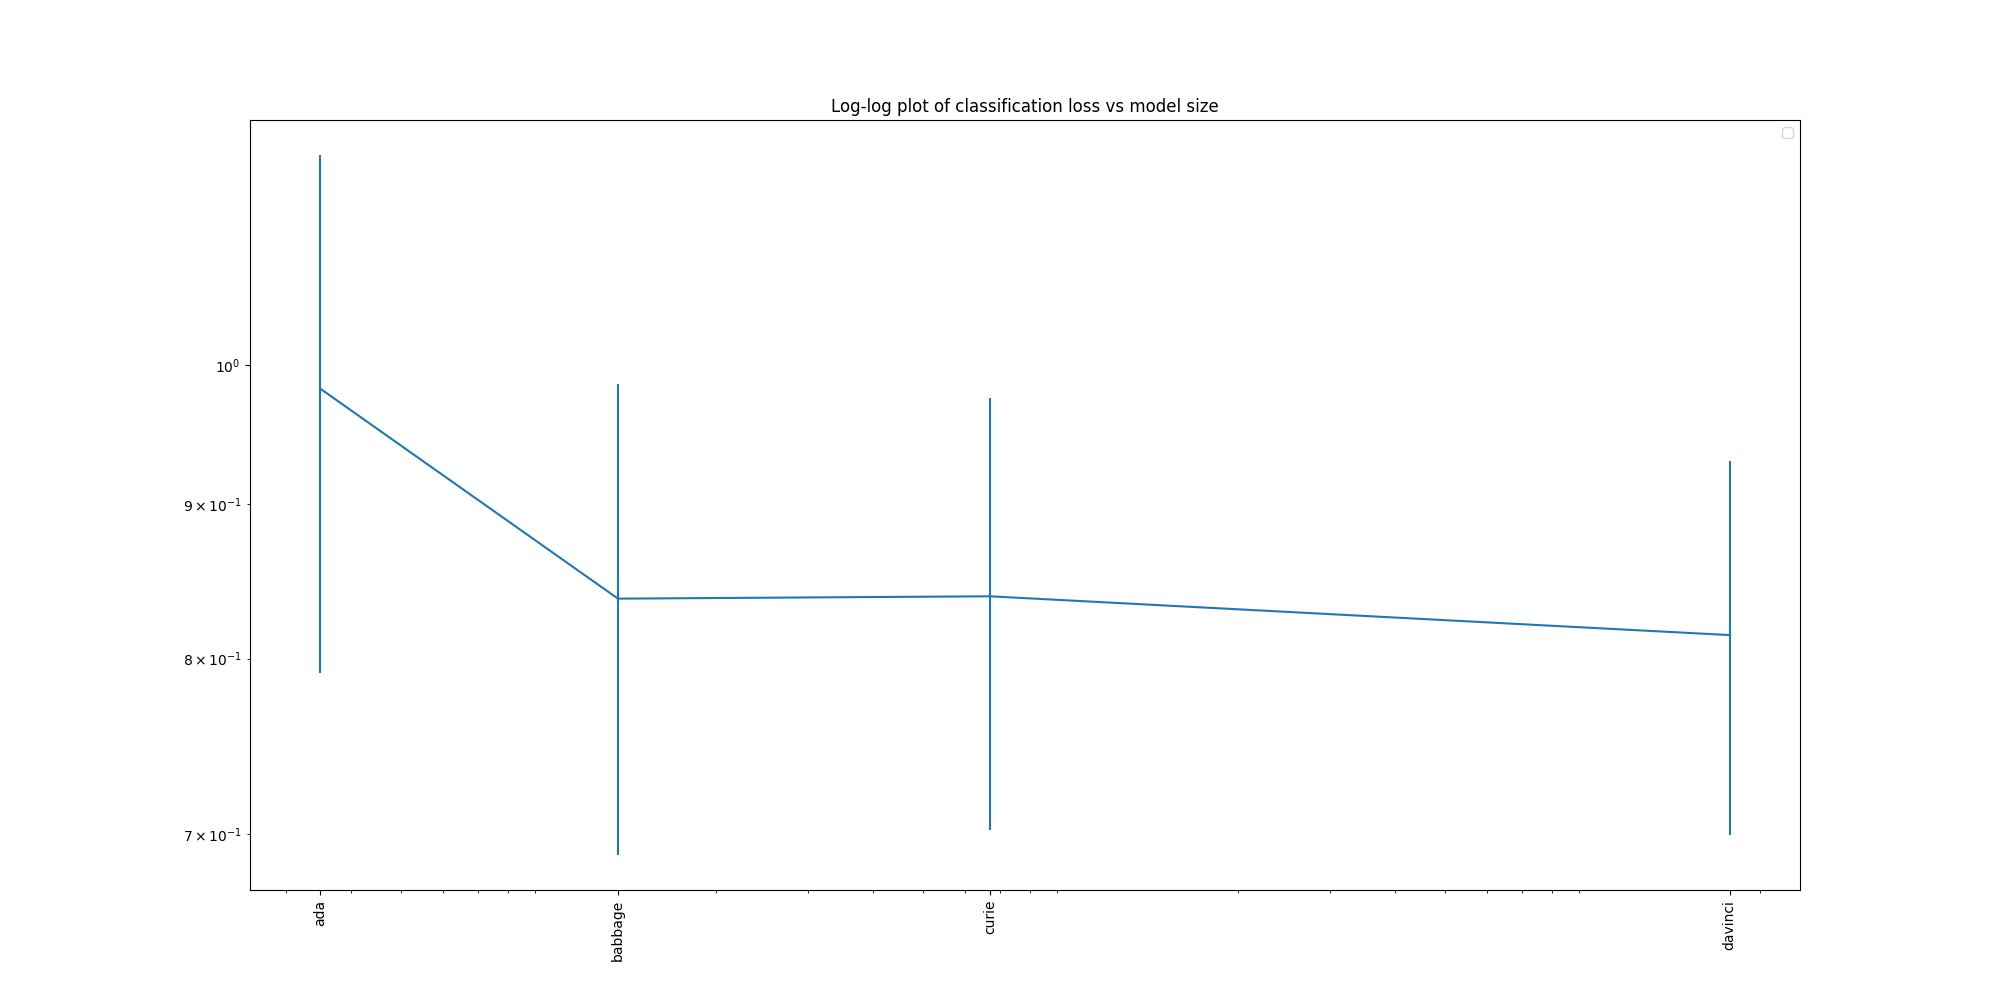
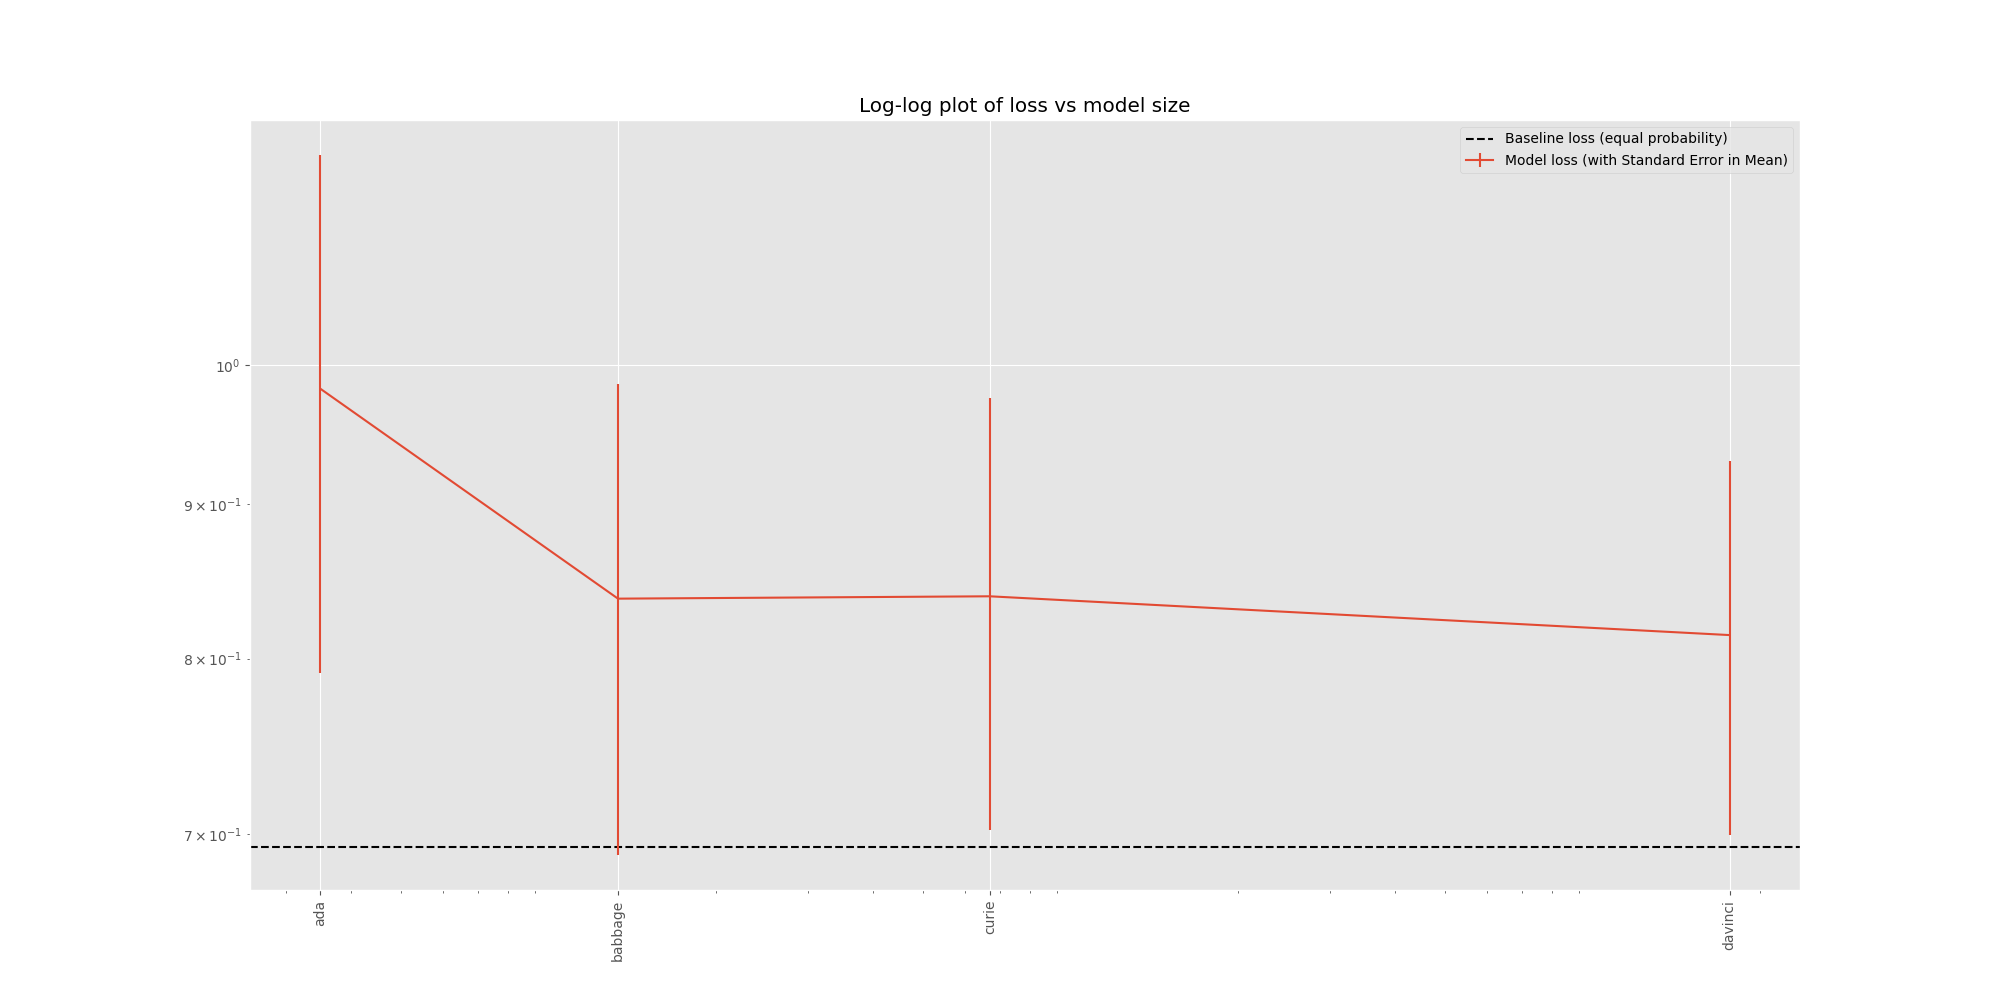
add baseline to classification plots

diff --git a/eval_pipeline/plot_loss.py b/eval_pipeline/plot_loss.py
@@ -1,5 +1,6 @@
 from __future__ import annotations
 import argparse
+from ast import literal_eval
 import json
 import sys
 
@@ -47,6 +48,15 @@ def main():
 
 def plot_classification_loss(exp_dir: Path):
     loss_csvs = [f for f in exp_dir.glob("*.csv") if f.name != "data.csv"]
+    data_csv = pd.read_csv(Path(exp_dir, "data.csv"), index_col=0).reset_index(drop=True)
+    print(data_csv.head())
+    print(data_csv["classes"])
+    print(data_csv["classes"][0])
+    # NOTE: assuming all examples have the same number of classes
+    n_classes = len(literal_eval(data_csv["classes"][0]))  # type: ignore
+    # the baseline puts equal probability on each class, so we are considering a uniform distribution
+    baseline_prob = 1 / n_classes 
+    baseline_loss = - np.log(baseline_prob)
     if len(loss_csvs) == 0:
         raise ValueError(f"{exp_dir} does not exist or contains no output files")
     dfs = {csv_file.stem: pd.read_csv(csv_file, index_col=0) for csv_file in loss_csvs}
@@ -56,7 +66,7 @@ def plot_classification_loss(exp_dir: Path):
         model_name: np.std(df["loss"]) / np.sqrt(len(df["loss"]))
         for model_name, df in dfs.items()
     }
-    plot_loss(exp_dir, averages, standard_errors)
+    plot_loss(exp_dir, averages, standard_errors, baseline=baseline_loss)
 
 
 def plot_numeric_loss(exp_dir: Path):
@@ -75,19 +85,27 @@ def plot_loss(
     exp_dir: Path,
     loss_dict: dict[str, float],
     standard_errors: Optional[dict[str, float]] = None,
+    baseline: Optional[float] = None,
 ) -> None:
+    plt.style.use('ggplot')
+
     fig = plt.figure(figsize=(20, 10))
+
+    if baseline is not None:
+        plt.axhline(baseline, linestyle='--', color='k', label="Baseline loss (equal probability)")
+        print(f"Baseline at {baseline}")
+
     if standard_errors is not None:
         errorbar_data = [
             (size_dict[size], loss, standard_errors[size])
             for size, loss in loss_dict.items()
         ]
         xs, ys, yerrs = zip(*sorted(errorbar_data, key=lambda pair: pair[0]))
-        plt.errorbar(xs, ys, yerrs)
+        plt.errorbar(xs, ys, yerrs, label="Model loss (with Standard Error in Mean)")
     else:
         xy_pairs = [(size_dict[size], loss) for size, loss in loss_dict.items()]
         xs, ys = zip(*sorted(xy_pairs, key=lambda pair: pair[0]))
-        plt.plot(xs, ys)
+        plt.plot(xs, ys, label="Model loss")
 
     labels, ticks = zip(
         *[
